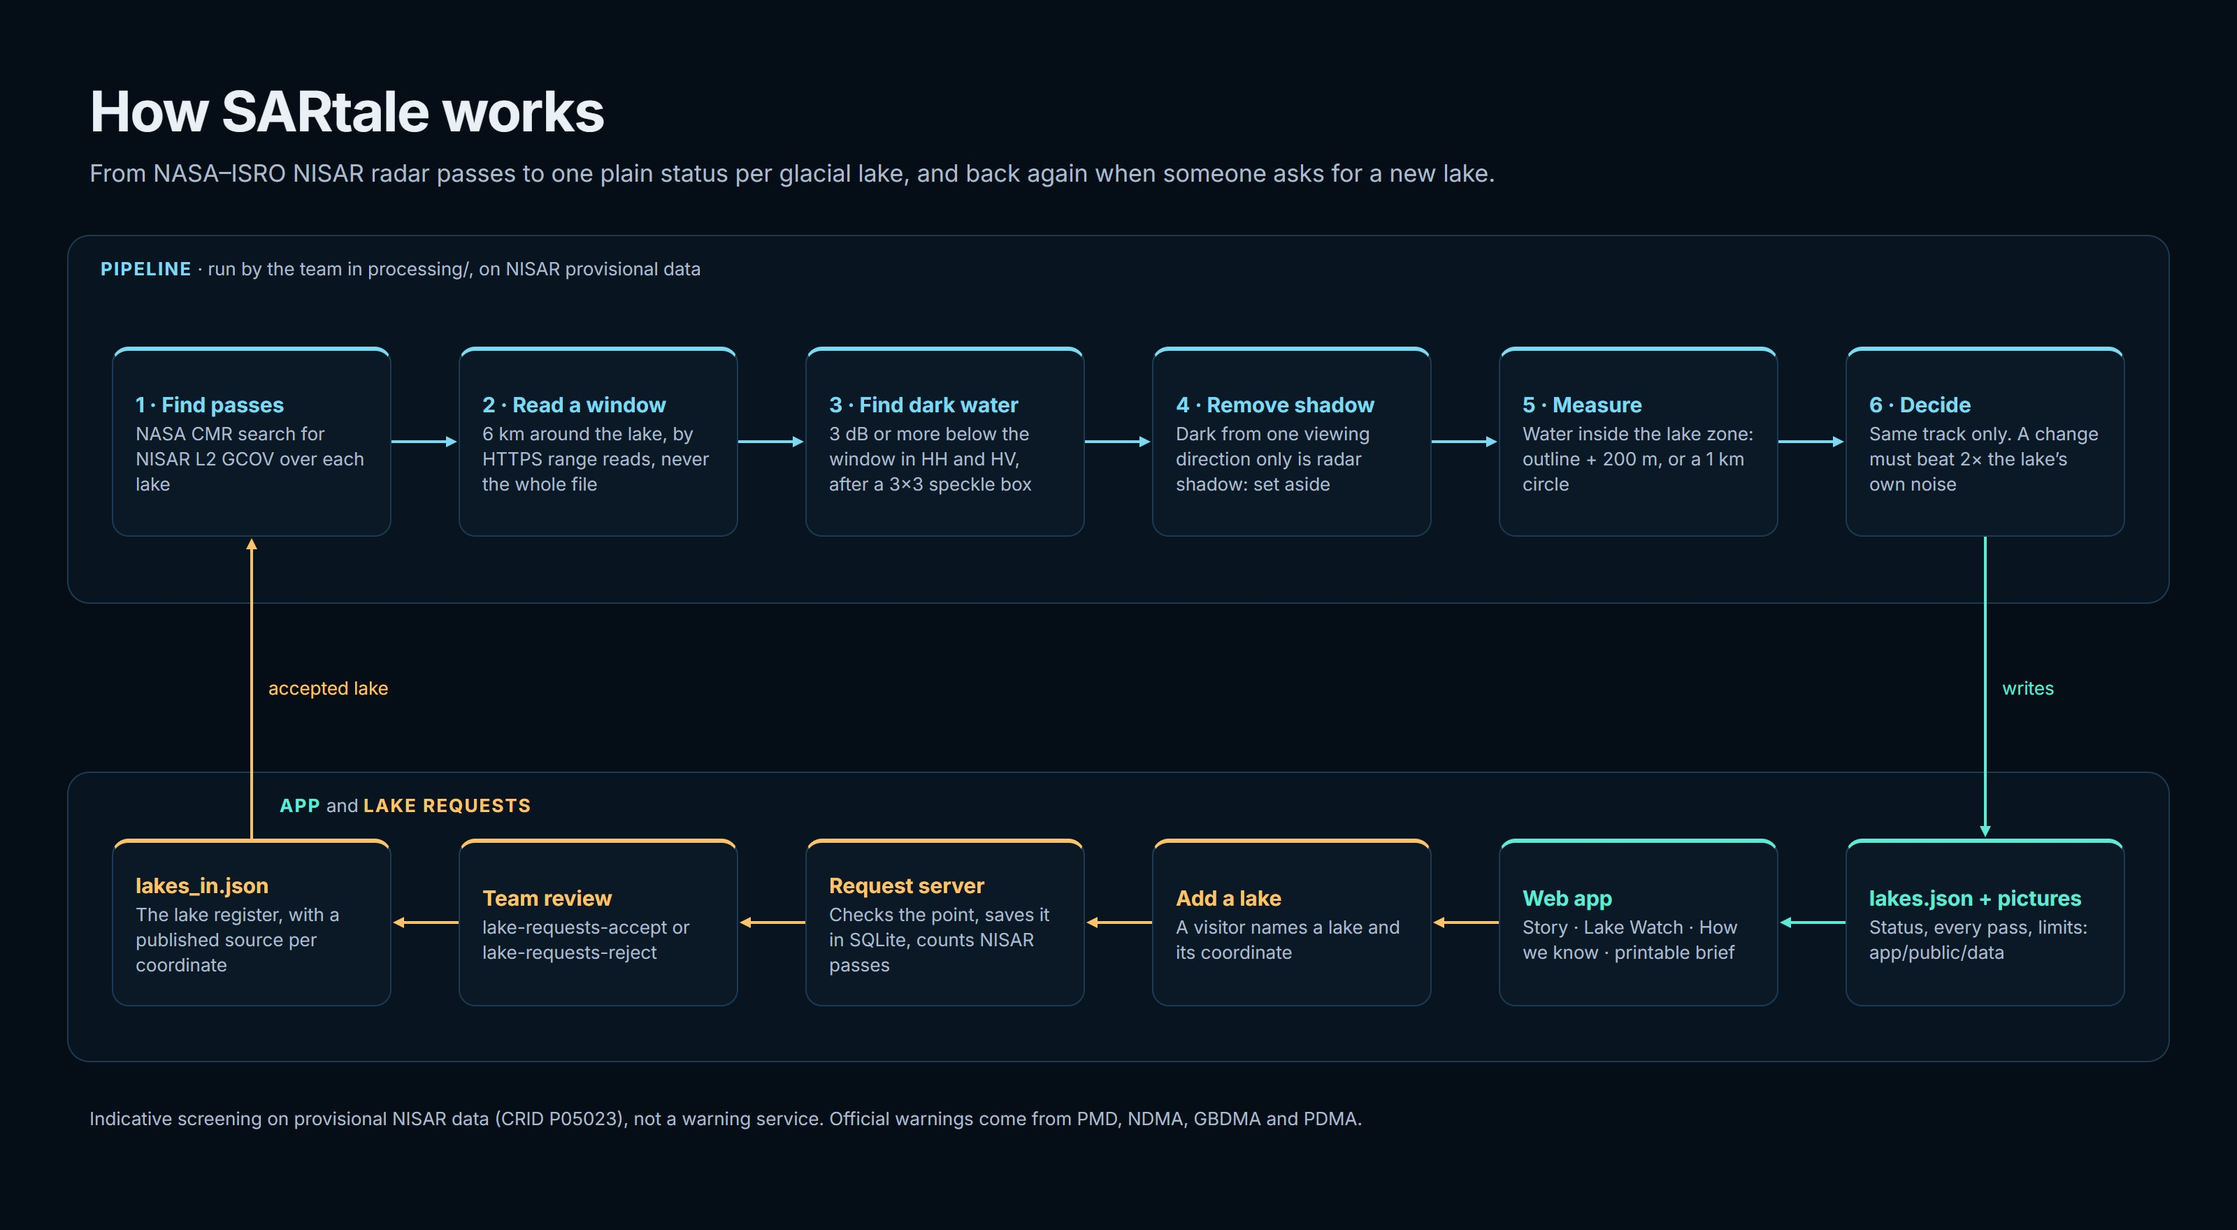
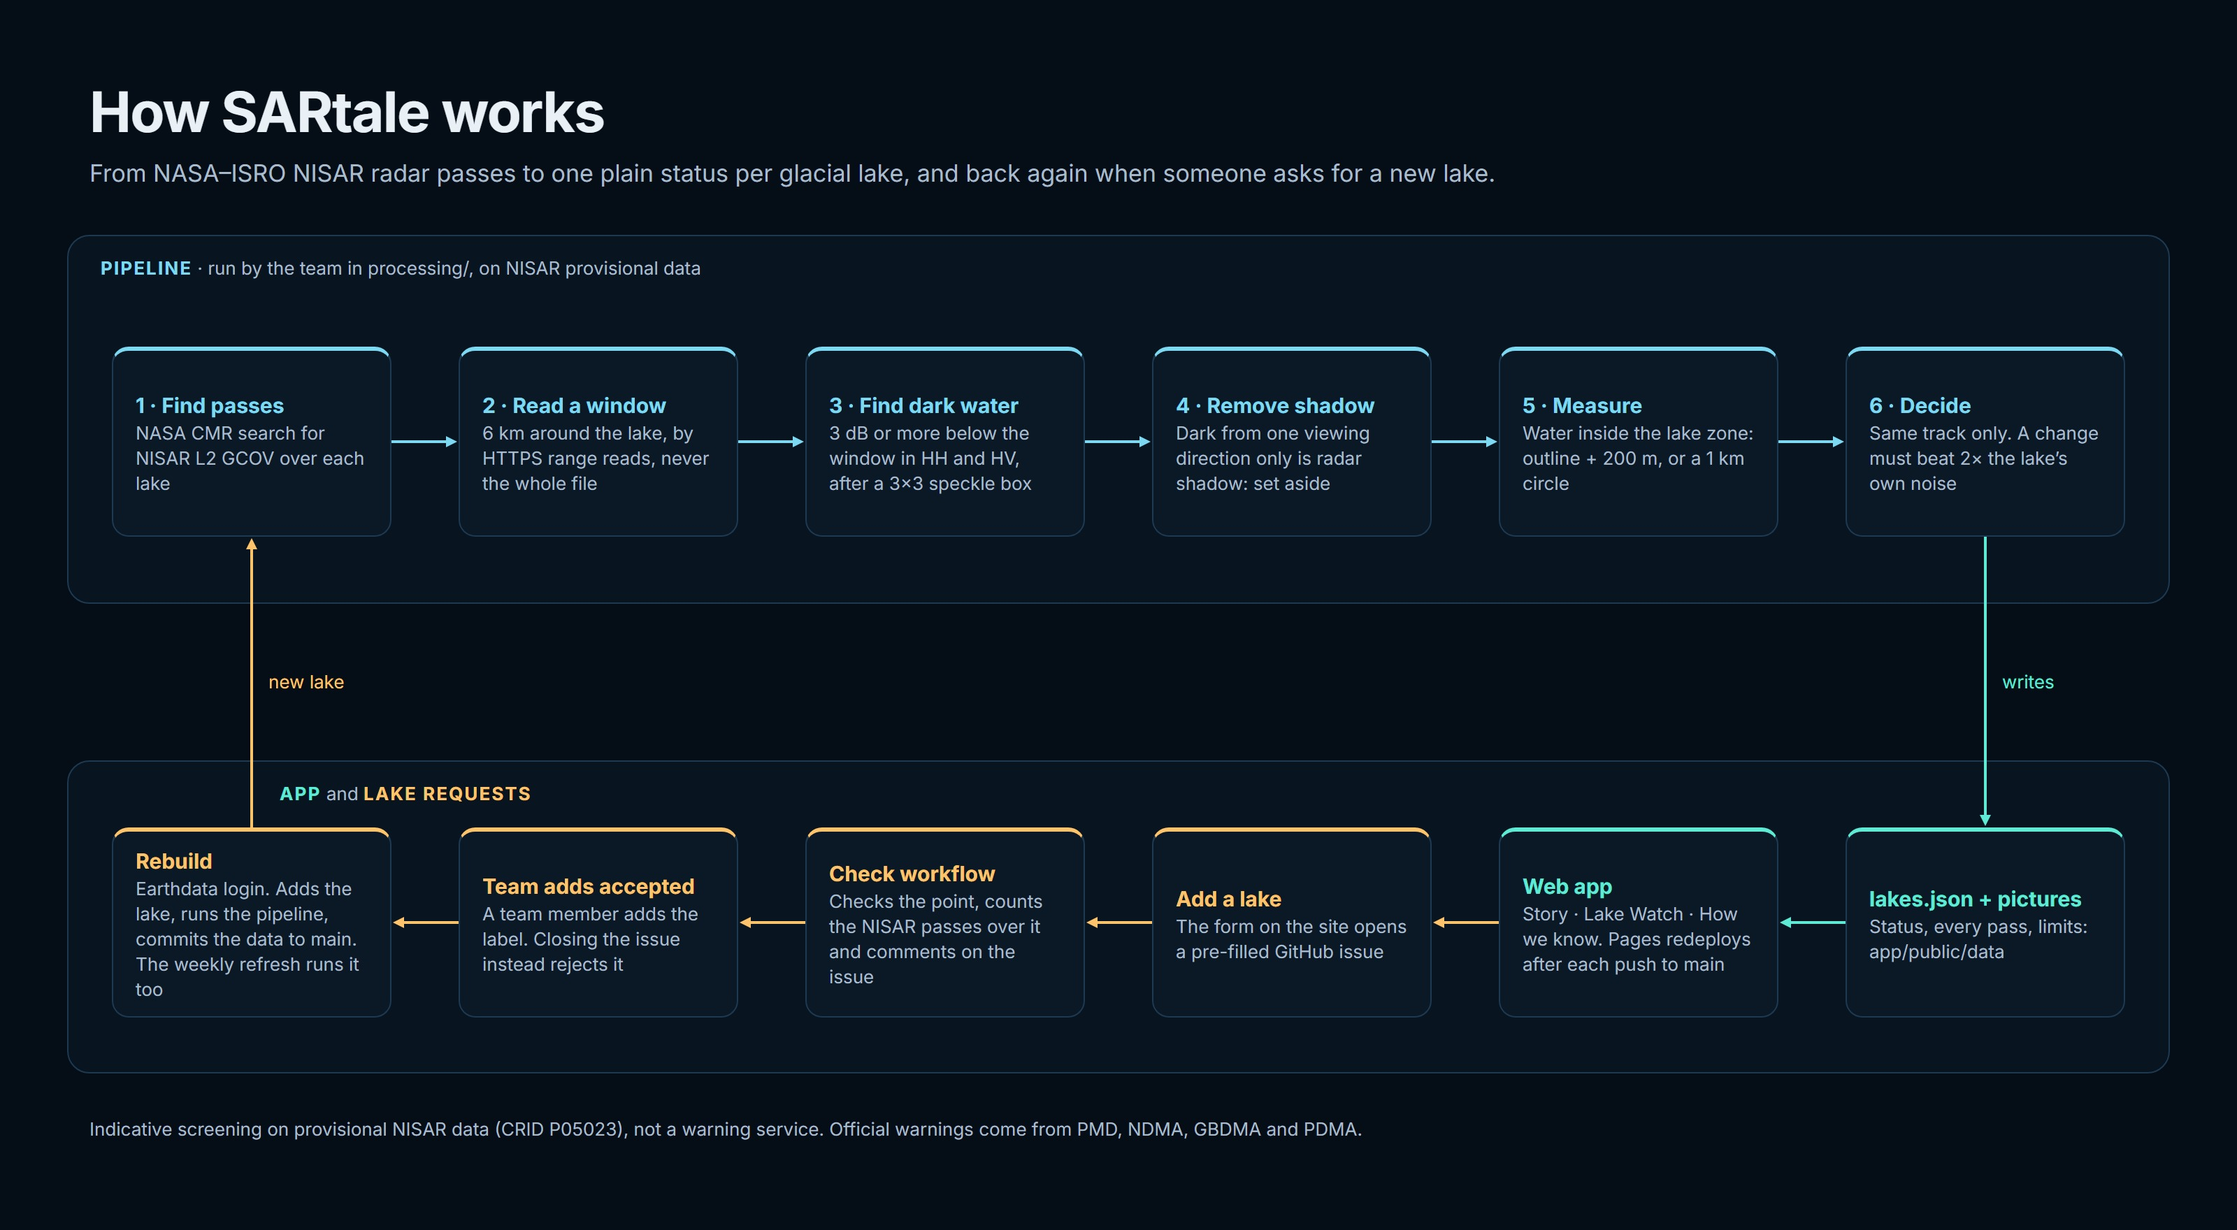
Fix stale guide statements, add PyYAML, redraw the workflow figure for the issue flow

diff --git a/docs/guide/pages/pipeline.html b/docs/guide/pages/pipeline.html
@@ -16,7 +16,7 @@ conda run -n sartale python -m sartale.run_pipeline lakes-check    <span class="
   <thead><tr><th>Command</th><th>What it does</th><th>Reads</th><th>Writes</th></tr></thead>
   <tbody>
     <tr><td><code>lakes-search</code></td><td>Searches NASA CMR for NISAR GCOV granules over each lake and prints a coverage report</td><td><code>lakes_in.json</code></td><td><code>data/lakes/passes.json</code></td></tr>
-    <tr><td><code>lakes-fetch</code></td><td>Reads a 6 km window from each pass with HTTP range requests and caches it. Safe to stop and run again; it skips cached windows and exits 1 if any pass failed</td><td><code>passes.json</code></td><td><code>data/lakes/&lt;lake&gt;/&lt;date&gt;_&lt;track&gt;_&lt;CRID&gt;.npz</code></td></tr>
+    <tr><td><code>lakes-fetch</code></td><td>Reads a 6 km window from each pass with HTTP range requests and caches it. You can stop it and run it again; it skips cached windows and exits 1 if any pass failed</td><td><code>passes.json</code></td><td><code>data/lakes/&lt;lake&gt;/&lt;date&gt;_&lt;track&gt;_&lt;CRID&gt;.npz</code></td></tr>
     <tr><td><code>lakes-build</code></td><td>Runs the method on every cached window, then the Attabad gate (below)</td><td>the cache, <code>lake_checks.json</code></td><td><code>app/public/data/lakes.json</code>, <code>app/public/data/lakes/&lt;lake&gt;/*.webp</code></td></tr>
     <tr><td><code>lakes-check</code></td><td>Compares radar water with Sentinel-2 water for <code>--lakes</code> (default <code>attabad,khurdopin,passu,shisper</code>)</td><td>the cache, <code>lakes.json</code></td><td><code>processing/lake_checks.json</code>; the next <code>lakes-build</code> copies it into <code>lakes.json</code></td></tr>
   </tbody>
@@ -46,7 +46,7 @@ conda run -n sartale python -m sartale.run_pipeline lakes-check    <span class="
     <tr><td><code>lakestatus.py</code></td><td>Noise and the status of each lake</td></tr>
     <tr><td><code>lakebuild.py</code>, <code>render.py</code></td><td>Puts it together: <code>lakes.json</code>, the pictures and the Attabad gate</td></tr>
     <tr><td><code>lakecheck.py</code></td><td>The Sentinel-2 comparison</td></tr>
-    <tr><td><code>lake_requests.py</code>, <code>requests_server.py</code></td><td>The lake request store and its HTTP server</td></tr>
+    <tr><td><code>lake_requests.py</code>, <code>lake_issues.py</code>, <code>accept_queue.py</code></td><td>The request rules (point, name, source, distance), reading issues into <code>requests.json</code> and their comments and labels, and choosing the next waiting accept</td></tr>
   </tbody>
 </table></div>
 

diff --git a/docs/guide/pipeline.html b/docs/guide/pipeline.html
@@ -42,7 +42,7 @@ conda run -n sartale python -m sartale.run_pipeline lakes-check    <span class="
   <thead><tr><th>Command</th><th>What it does</th><th>Reads</th><th>Writes</th></tr></thead>
   <tbody>
     <tr><td><code>lakes-search</code></td><td>Searches NASA CMR for NISAR GCOV granules over each lake and prints a coverage report</td><td><code>lakes_in.json</code></td><td><code>data/lakes/passes.json</code></td></tr>
-    <tr><td><code>lakes-fetch</code></td><td>Reads a 6 km window from each pass with HTTP range requests and caches it. Safe to stop and run again; it skips cached windows and exits 1 if any pass failed</td><td><code>passes.json</code></td><td><code>data/lakes/&lt;lake&gt;/&lt;date&gt;_&lt;track&gt;_&lt;CRID&gt;.npz</code></td></tr>
+    <tr><td><code>lakes-fetch</code></td><td>Reads a 6 km window from each pass with HTTP range requests and caches it. You can stop it and run it again; it skips cached windows and exits 1 if any pass failed</td><td><code>passes.json</code></td><td><code>data/lakes/&lt;lake&gt;/&lt;date&gt;_&lt;track&gt;_&lt;CRID&gt;.npz</code></td></tr>
     <tr><td><code>lakes-build</code></td><td>Runs the method on every cached window, then the Attabad gate (below)</td><td>the cache, <code>lake_checks.json</code></td><td><code>app/public/data/lakes.json</code>, <code>app/public/data/lakes/&lt;lake&gt;/*.webp</code></td></tr>
     <tr><td><code>lakes-check</code></td><td>Compares radar water with Sentinel-2 water for <code>--lakes</code> (default <code>attabad,khurdopin,passu,shisper</code>)</td><td>the cache, <code>lakes.json</code></td><td><code>processing/lake_checks.json</code>; the next <code>lakes-build</code> copies it into <code>lakes.json</code></td></tr>
   </tbody>
@@ -72,7 +72,7 @@ conda run -n sartale python -m sartale.run_pipeline lakes-check    <span class="
     <tr><td><code>lakestatus.py</code></td><td>Noise and the status of each lake</td></tr>
     <tr><td><code>lakebuild.py</code>, <code>render.py</code></td><td>Puts it together: <code>lakes.json</code>, the pictures and the Attabad gate</td></tr>
     <tr><td><code>lakecheck.py</code></td><td>The Sentinel-2 comparison</td></tr>
-    <tr><td><code>lake_requests.py</code>, <code>requests_server.py</code></td><td>The lake request store and its HTTP server</td></tr>
+    <tr><td><code>lake_requests.py</code>, <code>lake_issues.py</code>, <code>accept_queue.py</code></td><td>The request rules (point, name, source, distance), reading issues into <code>requests.json</code> and their comments and labels, and choosing the next waiting accept</td></tr>
   </tbody>
 </table></div>
 

diff --git a/docs/guide/deploy.html b/docs/guide/deploy.html
@@ -25,7 +25,7 @@
     <details class="menu"><summary>Guide contents</summary><nav aria-label="Guide contents"><h2>Start here</h2><ul><li><a href="index.html">Overview</a></li><li><a href="getting-started.html">Getting started</a></li><li><a href="user-guide.html">Using the website</a></li></ul><h2>How it works</h2><ul><li><a href="method.html">The method</a></li><li><a href="pipeline.html">Pipeline</a></li><li><a href="data.html">Data files</a></li></ul><h2>Build and run</h2><ul><li><a href="app.html">Web app</a></li><li><a href="lake-requests.html">Lake requests</a></li><li><a href="deploy.html" aria-current="page">Deploying</a></li></ul><h2>Project</h2><ul><li><a href="contributing.html">Contributing</a></li><li><a href="faq.html">Questions and limits</a></li></ul></nav></details>
     <article class="doc">
 <h1>Deploying</h1>
-<p class="lede">The site is published to GitHub Pages by a workflow. Lake requests, accepts and weekly data refreshes run as GitHub Actions too, so there is no server to run. The live site is <a href="https://saeedahmadicp.github.io/SARtale/">saeedahmadicp.github.io/SARtale</a> and this guide is at <a href="https://saeedahmadicp.github.io/SARtale/guide/">/guide/</a>.</p>
+<p class="lede">The site is published to GitHub Pages by a workflow. Lake requests, accepts and weekly data refreshes run as GitHub Actions too, so there is no server to run. The live site is <a href="https://saeedahmad.me/SARtale/">saeedahmad.me/SARtale</a> and this guide is at <a href="https://saeedahmad.me/SARtale/guide/">/guide/</a>. The address <code>saeedahmadicp.github.io/SARtale</code> redirects there, because the owner's GitHub user site has a custom domain. A copy of this repository under another account is served at that account's own address.</p>
 
 <h2 id="one-time-owner-setup">One-time owner setup<a class="anchor" href="#one-time-owner-setup" aria-label="Link to this section">#</a></h2>
 <p>Do these three things once on GitHub, in this order, before anyone opens a lake request.</p>

diff --git a/docs/guide/index.html b/docs/guide/index.html
@@ -51,8 +51,8 @@
 
 <h2 id="how-it-fits-together">How it fits together<a class="anchor" href="#how-it-fits-together" aria-label="Link to this section">#</a></h2>
 <figure>
-  <img src="assets/workflow.jpg" alt="Workflow: six pipeline steps from finding NISAR passes to deciding a status, which write lakes.json for the web app; visitors' lake requests go through a GitHub issue and team review into lakes_in.json, which feeds the pipeline again." width="1600" height="880">
-  <figcaption>The pipeline turns NISAR passes into <code>lakes.json</code>; the app reads it. A new lake comes in through a visitor's GitHub issue and the team's review. The picture above shows the earlier request server; requests now go through issues (<a href="lake-requests.html">Lake requests</a>).</figcaption>
+  <img src="assets/workflow.jpg" alt="Workflow: six pipeline steps from finding NISAR passes to deciding a status, which write lakes.json for the web app. A lower loop shows a lake request: the form on the site opens a pre-filled GitHub issue, a workflow comments with the NISAR pass count, a team member adds the accepted label, the data are rebuilt and committed to main, and Pages redeploys. A weekly refresh feeds the same rebuild." width="1600" height="880">
+  <figcaption>The pipeline turns NISAR passes into <code>lakes.json</code>; the app reads it. A new lake comes in through a visitor's GitHub issue and the team's review, and a weekly refresh feeds the same rebuild (<a href="lake-requests.html">Lake requests</a>).</figcaption>
 </figure>
 
 <h2 id="what-is-in-the-repository">What is in the repository<a class="anchor" href="#what-is-in-the-repository" aria-label="Link to this section">#</a></h2>

diff --git a/docs/guide/pages/index.html b/docs/guide/pages/index.html
@@ -25,8 +25,8 @@
 
 <h2>How it fits together</h2>
 <figure>
-  <img src="assets/workflow.jpg" alt="Workflow: six pipeline steps from finding NISAR passes to deciding a status, which write lakes.json for the web app; visitors' lake requests go through a GitHub issue and team review into lakes_in.json, which feeds the pipeline again." width="1600" height="880">
-  <figcaption>The pipeline turns NISAR passes into <code>lakes.json</code>; the app reads it. A new lake comes in through a visitor's GitHub issue and the team's review. The picture above shows the earlier request server; requests now go through issues (<a href="lake-requests.html">Lake requests</a>).</figcaption>
+  <img src="assets/workflow.jpg" alt="Workflow: six pipeline steps from finding NISAR passes to deciding a status, which write lakes.json for the web app. A lower loop shows a lake request: the form on the site opens a pre-filled GitHub issue, a workflow comments with the NISAR pass count, a team member adds the accepted label, the data are rebuilt and committed to main, and Pages redeploys. A weekly refresh feeds the same rebuild." width="1600" height="880">
+  <figcaption>The pipeline turns NISAR passes into <code>lakes.json</code>; the app reads it. A new lake comes in through a visitor's GitHub issue and the team's review, and a weekly refresh feeds the same rebuild (<a href="lake-requests.html">Lake requests</a>).</figcaption>
 </figure>
 
 <h2>What is in the repository</h2>

diff --git a/docs/guide/pages/user-guide.html b/docs/guide/pages/user-guide.html
@@ -26,7 +26,7 @@
 <p>Lake Watch shows every lake on a small map over a NASA MODIS picture, with a list beside it. Each row has a radar thumbnail, the status and one sentence saying what was measured. Selecting a lake opens its panel:</p>
 <ul>
   <li><b>Status sentence:</b> the change since earlier passes on the same track, the lake's own noise, the number of looks and the latest date.</li>
-  <li><b>Radar pictures:</b> the latest HH picture, with the water read from radar on top in blue. The slider sets how strongly the water shows. The pictures are in radar geometry, so north is not up.</li>
+  <li><b>Radar pictures:</b> the latest HH picture, with the water read from radar on top in blue. The slider sets how strongly the water shows. The pictures are crops on the UTM grid with north up; they are pictures, not map overlays.</li>
   <li><b>Area by track:</b> one line per NISAR track. Hollow markers are passes left out of the trend, and the reason for each is listed below the chart.</li>
   <li><b>Limits:</b> the method's standing limits, then any limits for that lake.</li>
   <li><b>Print lake brief:</b> a one-page summary for a meeting or a field team, with dates, looks, noise and limits.</li>

diff --git a/docs/guide/user-guide.html b/docs/guide/user-guide.html
@@ -52,7 +52,7 @@
 <p>Lake Watch shows every lake on a small map over a NASA MODIS picture, with a list beside it. Each row has a radar thumbnail, the status and one sentence saying what was measured. Selecting a lake opens its panel:</p>
 <ul>
   <li><b>Status sentence:</b> the change since earlier passes on the same track, the lake's own noise, the number of looks and the latest date.</li>
-  <li><b>Radar pictures:</b> the latest HH picture, with the water read from radar on top in blue. The slider sets how strongly the water shows. The pictures are in radar geometry, so north is not up.</li>
+  <li><b>Radar pictures:</b> the latest HH picture, with the water read from radar on top in blue. The slider sets how strongly the water shows. The pictures are crops on the UTM grid with north up; they are pictures, not map overlays.</li>
   <li><b>Area by track:</b> one line per NISAR track. Hollow markers are passes left out of the trend, and the reason for each is listed below the chart.</li>
   <li><b>Limits:</b> the method's standing limits, then any limits for that lake.</li>
   <li><b>Print lake brief:</b> a one-page summary for a meeting or a field team, with dates, looks, noise and limits.</li>

diff --git a/docs/guide/pages/deploy.html b/docs/guide/pages/deploy.html
@@ -1,5 +1,5 @@
 <h1>Deploying</h1>
-<p class="lede">The site is published to GitHub Pages by a workflow. Lake requests, accepts and weekly data refreshes run as GitHub Actions too, so there is no server to run. The live site is <a href="https://saeedahmadicp.github.io/SARtale/">saeedahmadicp.github.io/SARtale</a> and this guide is at <a href="https://saeedahmadicp.github.io/SARtale/guide/">/guide/</a>.</p>
+<p class="lede">The site is published to GitHub Pages by a workflow. Lake requests, accepts and weekly data refreshes run as GitHub Actions too, so there is no server to run. The live site is <a href="{{SITE}}">saeedahmad.me/SARtale</a> and this guide is at <a href="{{SITE}}guide/">/guide/</a>. The address <code>saeedahmadicp.github.io/SARtale</code> redirects there, because the owner's GitHub user site has a custom domain. A copy of this repository under another account is served at that account's own address.</p>
 
 <h2>One-time owner setup</h2>
 <p>Do these three things once on GitHub, in this order, before anyone opens a lake request.</p>

diff --git a/docs/guide/getting-started.html b/docs/guide/getting-started.html
@@ -32,7 +32,7 @@
   <thead><tr><th>For</th><th>Install</th></tr></thead>
   <tbody>
     <tr><td>The website</td><td>Node.js 20.19 or later (22 LTS recommended), with npm</td></tr>
-    <tr><td>The pipeline</td><td>Miniconda or Anaconda, for the <code>sartale</code> environment in <code>environment.yml</code> (Python 3.12, NumPy, SciPy, h5py, rasterio, GDAL, pyproj, Pillow, requests, pytest)</td></tr>
+    <tr><td>The pipeline</td><td>Miniconda or Anaconda, for the <code>sartale</code> environment in <code>environment.yml</code> (Python 3.12, NumPy, SciPy, h5py, rasterio, GDAL, pyproj, Pillow, requests, PyYAML, pytest)</td></tr>
     <tr><td>Rebuilding data from NISAR</td><td>A free <a href="https://urs.earthdata.nasa.gov/">NASA Earthdata login</a>, saved in <code>~/.netrc</code></td></tr>
   </tbody>
 </table></div>

diff --git a/docs/guide/pages/getting-started.html b/docs/guide/pages/getting-started.html
@@ -6,7 +6,7 @@
   <thead><tr><th>For</th><th>Install</th></tr></thead>
   <tbody>
     <tr><td>The website</td><td>Node.js 20.19 or later (22 LTS recommended), with npm</td></tr>
-    <tr><td>The pipeline</td><td>Miniconda or Anaconda, for the <code>sartale</code> environment in <code>environment.yml</code> (Python 3.12, NumPy, SciPy, h5py, rasterio, GDAL, pyproj, Pillow, requests, pytest)</td></tr>
+    <tr><td>The pipeline</td><td>Miniconda or Anaconda, for the <code>sartale</code> environment in <code>environment.yml</code> (Python 3.12, NumPy, SciPy, h5py, rasterio, GDAL, pyproj, Pillow, requests, PyYAML, pytest)</td></tr>
     <tr><td>Rebuilding data from NISAR</td><td>A free <a href="https://urs.earthdata.nasa.gov/">NASA Earthdata login</a>, saved in <code>~/.netrc</code></td></tr>
   </tbody>
 </table></div>

diff --git a/docs/guide/lake-requests.html b/docs/guide/lake-requests.html
@@ -89,6 +89,7 @@
     <tr><td>Rule broken</td><td>"This request cannot be used." and the reason</td></tr>
     <tr><td>Catalogue down</td><td>"NASA's catalogue did not answer; the team will retry." The next run checks again</td></tr>
     <tr><td>Accepted</td><td>"Accepted. The lake is now watched:" and a link to the lake on the site</td></tr>
+    <tr><td>Published, deploy not started</td><td>"Published, but the site deploy did not start; run the Deploy workflow." The lake is on <code>main</code>; run Actions → Deploy to GitHub Pages → Run workflow</td></tr>
     <tr><td>Rebuild failed</td><td>"The rebuild failed; see" a link to the run, then "Nothing was published."</td></tr>
   </tbody>
 </table></div>

diff --git a/docs/guide/pages/lake-requests.html b/docs/guide/pages/lake-requests.html
@@ -63,6 +63,7 @@
     <tr><td>Rule broken</td><td>"This request cannot be used." and the reason</td></tr>
     <tr><td>Catalogue down</td><td>"NASA's catalogue did not answer; the team will retry." The next run checks again</td></tr>
     <tr><td>Accepted</td><td>"Accepted. The lake is now watched:" and a link to the lake on the site</td></tr>
+    <tr><td>Published, deploy not started</td><td>"Published, but the site deploy did not start; run the Deploy workflow." The lake is on <code>main</code>; run Actions → Deploy to GitHub Pages → Run workflow</td></tr>
     <tr><td>Rebuild failed</td><td>"The rebuild failed; see" a link to the run, then "Nothing was published."</td></tr>
   </tbody>
 </table></div>
